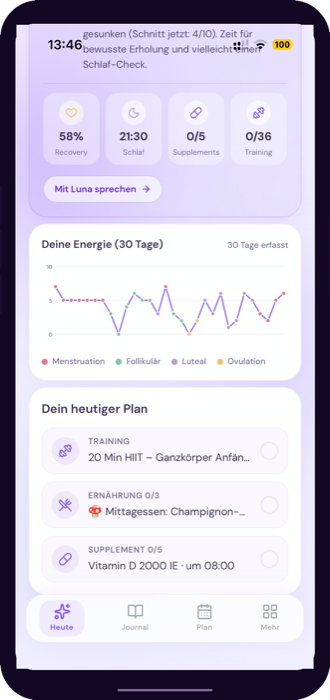
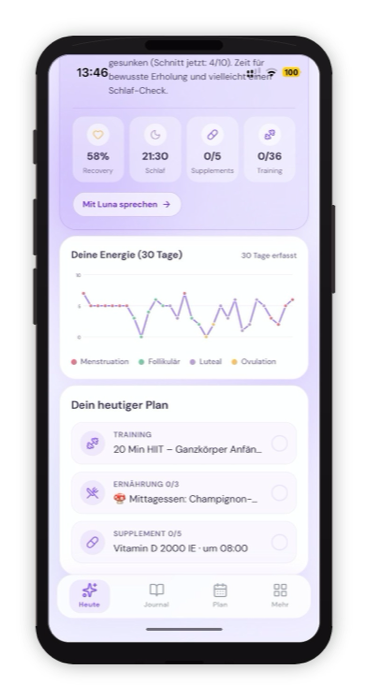
Feat: Slider-Refactor — Click-Navigation + neue Mockups + mittige Zentrierung
- Neue JPG-Mockups (iPhone-Device-Frames) als PNG übernommen
- Slider: Thumbnails zum Durchklicken + Prev/Next-Pfeile
- Tastatur-Navigation (← →) und Klick auf aktives Bild
- Caption unterhalb des Stages (Titel + Untertitel)
- Bilder werden mittig im Stage zentriert (Flex align/justify)

diff --git a/index.html b/index.html
@@ -395,66 +395,120 @@ footer {
   margin: 0 auto 48px;
   line-height: 1.6;
 }
+.slider-main {
+  display: flex; align-items: center; justify-content: center;
+  gap: 24px;
+}
+.slider-arrow {
+  width: 52px; height: 52px;
+  border-radius: 50%;
+  background: #fff;
+  border: 1px solid rgba(124,58,237,0.15);
+  color: var(--purple);
+  font-size: 26px; font-weight: 600;
+  line-height: 1;
+  cursor: pointer;
+  display: flex; align-items: center; justify-content: center;
+  box-shadow: 0 6px 20px rgba(124,58,237,0.12);
+  transition: all 0.25s ease;
+  flex-shrink: 0;
+  user-select: none;
+}
+.slider-arrow:hover {
+  background: var(--purple);
+  color: #fff;
+  transform: scale(1.08);
+  box-shadow: 0 8px 24px rgba(124,58,237,0.3);
+}
+.slider-arrow:active { transform: scale(0.96); }
 .slider-stage {
   position: relative;
-  height: 640px;
-  display: flex; align-items: center; justify-content: center;
+  width: 300px; height: 640px;
+  flex-shrink: 0;
 }
-.slider-track { position: relative; width: 100%; height: 100%; }
 .slide {
   position: absolute;
-  top: 0; left: 50%;
-  width: 290px;
-  transform: translate(-50%, 0) scale(0.92);
+  inset: 0;
+  display: flex;
+  align-items: center;
+  justify-content: center;
   opacity: 0;
-  transition: opacity 0.7s ease, transform 0.7s ease;
+  transform: scale(0.94);
+  transition: opacity 0.6s ease, transform 0.6s ease;
   pointer-events: none;
+  cursor: pointer;
 }
 .slide.active {
   opacity: 1;
-  transform: translate(-50%, 0) scale(1);
+  transform: scale(1);
   pointer-events: auto;
 }
 .slide img {
-  width: 100%; height: auto;
+  max-width: 100%;
+  max-height: 100%;
+  width: auto;
+  height: auto;
   display: block;
   filter: drop-shadow(0 28px 50px rgba(124,58,237,0.25));
 }
-.slide-caption {
+.slider-info {
   margin-top: 28px;
-  font-size: 15px; font-weight: 500;
+  min-height: 52px;
+}
+.slider-info-title {
+  font-size: 17px; font-weight: 600;
   color: var(--text);
 }
-.slide-caption span {
-  display: block;
-  font-size: 13px; font-weight: 400;
-  color: var(--muted);
+.slider-info-sub {
   margin-top: 4px;
+  font-size: 14px; font-weight: 400;
+  color: var(--muted);
 }
-.slider-dots {
+.slider-thumbs {
   display: flex; justify-content: center;
-  gap: 10px; margin-top: 8px;
+  gap: 14px; margin-top: 36px;
+  flex-wrap: wrap;
 }
-.slider-dots .dot {
-  width: 8px; height: 8px;
-  border-radius: 50%;
-  background: rgba(124,58,237,0.22);
-  border: none; cursor: pointer; padding: 0;
+.thumb {
+  width: 62px; height: 132px;
+  border-radius: 16px;
+  overflow: hidden;
+  background: #fff;
+  border: 2px solid transparent;
+  padding: 0;
+  cursor: pointer;
+  opacity: 0.5;
   transition: all 0.3s ease;
+  flex-shrink: 0;
+  box-shadow: 0 4px 14px rgba(124,58,237,0.10);
 }
-.slider-dots .dot:hover { background: rgba(124,58,237,0.45); }
-.slider-dots .dot.active {
-  background: var(--purple);
-  width: 26px; border-radius: 5px;
+.thumb img {
+  width: 100%; height: 100%;
+  object-fit: cover;
+  object-position: top center;
+  display: block;
+}
+.thumb:hover {
+  opacity: 0.9;
+  transform: translateY(-3px);
+}
+.thumb.active {
+  opacity: 1;
+  border-color: var(--purple);
+  box-shadow: 0 10px 24px rgba(124,58,237,0.28);
+  transform: translateY(-4px);
 }
 @media (max-width: 720px) {
-  .app-slider { padding: 64px 24px 40px; }
+  .app-slider { padding: 64px 16px 40px; }
   .slider-heading { font-size: 26px; }
   .slider-sub { font-size: 14px; margin-bottom: 32px; }
-  .slider-stage { height: 560px; }
-  .slide { width: 240px; }
-  .slide-caption { font-size: 14px; margin-top: 20px; }
-  .slide-caption span { font-size: 12px; }
+  .slider-main { gap: 10px; }
+  .slider-arrow { width: 40px; height: 40px; font-size: 20px; }
+  .slider-stage { width: 240px; height: 512px; }
+  .slider-info-title { font-size: 15px; }
+  .slider-info-sub { font-size: 13px; }
+  .thumb { width: 50px; height: 106px; border-radius: 12px; }
+  .slider-thumbs { gap: 8px; margin-top: 24px; }
 }
 </style>
 <link rel="stylesheet" href="https://cdnjs.cloudflare.com/ajax/libs/font-awesome/6.5.0/css/all.min.css">
@@ -480,37 +534,51 @@ footer {
   <div class="slider-container">
     <div class="slider-eyebrow">So fühlt sich Harmona an</div>
     <h2 class="slider-heading">Deine Zyklus-Begleiterin — <em>in einer App.</em></h2>
-    <p class="slider-sub">Fünf Screens, ein Rhythmus. Alles, was dein Körper heute braucht — personalisiert auf deine Phase.</p>
-    <div class="slider-stage">
-      <div class="slider-track">
-        <div class="slide active" data-idx="0">
-          <img src="images/mockup-home.png" alt="Heute-Tab mit Luna-Insight und Energie-Chart" loading="eager" width="290" height="615">
-          <p class="slide-caption">Dein Tag mit Luna<span>Energie, Recovery & heutiger Plan</span></p>
+    <p class="slider-sub">Tippe unten auf einen Screen — oder nutze die Pfeile.</p>
+
+    <div class="slider-main">
+      <button class="slider-arrow slider-prev" aria-label="Vorheriger Screen" type="button">‹</button>
+      <div class="slider-stage">
+        <div class="slide active" data-idx="0" data-title="Dein Tag mit Luna" data-sub="Energie, Recovery & heutiger Plan">
+          <img src="images/mockup-home.png" alt="Heute-Tab mit Luna-Insight und Energie-Chart" loading="eager">
         </div>
-        <div class="slide" data-idx="1">
-          <img src="images/mockup-plan.png" alt="Wochenplan mit Ernährung, Schlaf und Rezepten" loading="lazy" width="290" height="615">
-          <p class="slide-caption">Dein Plan für die Woche<span>Ernährung &amp; Schlaf · auf deine Phase abgestimmt</span></p>
+        <div class="slide" data-idx="1" data-title="Dein Plan für die Woche" data-sub="Ernährung & Schlaf · auf deine Phase abgestimmt">
+          <img src="images/mockup-plan.png" alt="Wochenplan mit Ernährung, Schlaf und Rezepten" loading="lazy">
         </div>
-        <div class="slide" data-idx="2">
-          <img src="images/mockup-supplements.png" alt="Supplement-Liste personalisiert" loading="lazy" width="290" height="615">
-          <p class="slide-caption">Supplements, die Sinn machen<span>Vitamin D, Zink, Ashwagandha — zur richtigen Zeit</span></p>
+        <div class="slide" data-idx="2" data-title="Supplements, die Sinn machen" data-sub="Vitamin D, Zink, Ashwagandha — zur richtigen Zeit">
+          <img src="images/mockup-supplements.png" alt="Supplement-Liste personalisiert" loading="lazy">
         </div>
-        <div class="slide" data-idx="3">
-          <img src="images/mockup-rezept.png" alt="Rezept Goldene Milch Energieballs" loading="lazy" width="290" height="615">
-          <p class="slide-caption">Rezepte, die zu dir passen<span>Entzündungshemmend, saisonal, einfach</span></p>
+        <div class="slide" data-idx="3" data-title="Rezepte, die zu dir passen" data-sub="Entzündungshemmend, saisonal, einfach">
+          <img src="images/mockup-rezept.png" alt="Rezept Goldene Milch Energieballs" loading="lazy">
         </div>
-        <div class="slide" data-idx="4">
-          <img src="images/mockup-journal.png" alt="Journal mit Neumond-Ritual" loading="lazy" width="290" height="615">
-          <p class="slide-caption">Journal &amp; Mond-Rituale<span>Intention, Reflexion, Verbindung</span></p>
+        <div class="slide" data-idx="4" data-title="Journal & Mond-Rituale" data-sub="Intention, Reflexion, Verbindung">
+          <img src="images/mockup-journal.png" alt="Journal mit Neumond-Ritual" loading="lazy">
         </div>
       </div>
+      <button class="slider-arrow slider-next" aria-label="Nächster Screen" type="button">›</button>
     </div>
-    <div class="slider-dots">
-      <button class="dot active" data-idx="0" aria-label="Slide 1"></button>
-      <button class="dot" data-idx="1" aria-label="Slide 2"></button>
-      <button class="dot" data-idx="2" aria-label="Slide 3"></button>
-      <button class="dot" data-idx="3" aria-label="Slide 4"></button>
-      <button class="dot" data-idx="4" aria-label="Slide 5"></button>
+
+    <div class="slider-info">
+      <div class="slider-info-title" id="sliderCaptionTitle">Dein Tag mit Luna</div>
+      <div class="slider-info-sub" id="sliderCaptionSub">Energie, Recovery &amp; heutiger Plan</div>
+    </div>
+
+    <div class="slider-thumbs" role="tablist" aria-label="Screens auswählen">
+      <button class="thumb active" data-idx="0" aria-label="Heute-Tab" type="button">
+        <img src="images/mockup-home.png" alt="">
+      </button>
+      <button class="thumb" data-idx="1" aria-label="Wochenplan" type="button">
+        <img src="images/mockup-plan.png" alt="">
+      </button>
+      <button class="thumb" data-idx="2" aria-label="Supplements" type="button">
+        <img src="images/mockup-supplements.png" alt="">
+      </button>
+      <button class="thumb" data-idx="3" aria-label="Rezept" type="button">
+        <img src="images/mockup-rezept.png" alt="">
+      </button>
+      <button class="thumb" data-idx="4" aria-label="Journal" type="button">
+        <img src="images/mockup-journal.png" alt="">
+      </button>
     </div>
   </div>
 </section>
@@ -748,45 +816,74 @@ footer {
 <script>
 // ── App-Slider ──────────────────────────────────────
 (function () {
-  const slides = document.querySelectorAll('.app-slider .slide');
-  const dots = document.querySelectorAll('.app-slider .dot');
-  if (!slides.length || !dots.length) return;
+  const slider = document.querySelector('.app-slider');
+  if (!slider) return;
+
+  const slides = slider.querySelectorAll('.slide');
+  const thumbs = slider.querySelectorAll('.thumb');
+  const prevBtn = slider.querySelector('.slider-prev');
+  const nextBtn = slider.querySelector('.slider-next');
+  const captionTitle = document.getElementById('sliderCaptionTitle');
+  const captionSub = document.getElementById('sliderCaptionSub');
+  if (!slides.length) return;
 
   let idx = 0;
   let timer = null;
-  const INTERVAL = 4500;
+  const INTERVAL = 5000;
 
   function go(i) {
     slides[idx].classList.remove('active');
-    dots[idx].classList.remove('active');
+    if (thumbs[idx]) thumbs[idx].classList.remove('active');
     idx = (i + slides.length) % slides.length;
-    slides[idx].classList.add('active');
-    dots[idx].classList.add('active');
+    const s = slides[idx];
+    s.classList.add('active');
+    if (thumbs[idx]) thumbs[idx].classList.add('active');
+    if (captionTitle && s.dataset.title) captionTitle.textContent = s.dataset.title;
+    if (captionSub && s.dataset.sub) captionSub.textContent = s.dataset.sub;
   }
   function next() { go(idx + 1); }
+  function prev() { go(idx - 1); }
   function start() { stop(); timer = setInterval(next, INTERVAL); }
   function stop() { if (timer) { clearInterval(timer); timer = null; } }
 
-  dots.forEach((d) => {
-    d.addEventListener('click', () => {
-      const target = parseInt(d.dataset.idx, 10);
-      go(target);
+  // Thumbnails: direkt auswählen
+  thumbs.forEach((t) => {
+    t.addEventListener('click', () => {
+      go(parseInt(t.dataset.idx, 10));
       start();
     });
   });
 
-  const stage = document.querySelector('.slider-stage');
+  // Arrows
+  if (nextBtn) nextBtn.addEventListener('click', () => { next(); start(); });
+  if (prevBtn) prevBtn.addEventListener('click', () => { prev(); start(); });
+
+  // Klick auf aktiven Slide → nächster
+  slides.forEach((s) => {
+    s.addEventListener('click', () => {
+      if (s.classList.contains('active')) { next(); start(); }
+    });
+  });
+
+  // Tastatur: ← →
+  slider.addEventListener('keydown', (e) => {
+    if (e.key === 'ArrowLeft') { prev(); start(); }
+    if (e.key === 'ArrowRight') { next(); start(); }
+  });
+
+  // Auto-Pause bei Hover über Hauptbühne
+  const stage = slider.querySelector('.slider-main');
   if (stage) {
     stage.addEventListener('mouseenter', stop);
     stage.addEventListener('mouseleave', start);
   }
 
-  // Start erst wenn der Slider sichtbar wird (spart CPU)
+  // Start wenn sichtbar (spart CPU)
   if ('IntersectionObserver' in window) {
     const io = new IntersectionObserver((entries) => {
       entries.forEach((e) => { e.isIntersecting ? start() : stop(); });
-    }, { threshold: 0.2 });
-    io.observe(document.querySelector('.app-slider'));
+    }, { threshold: 0.15 });
+    io.observe(slider);
   } else {
     start();
   }
